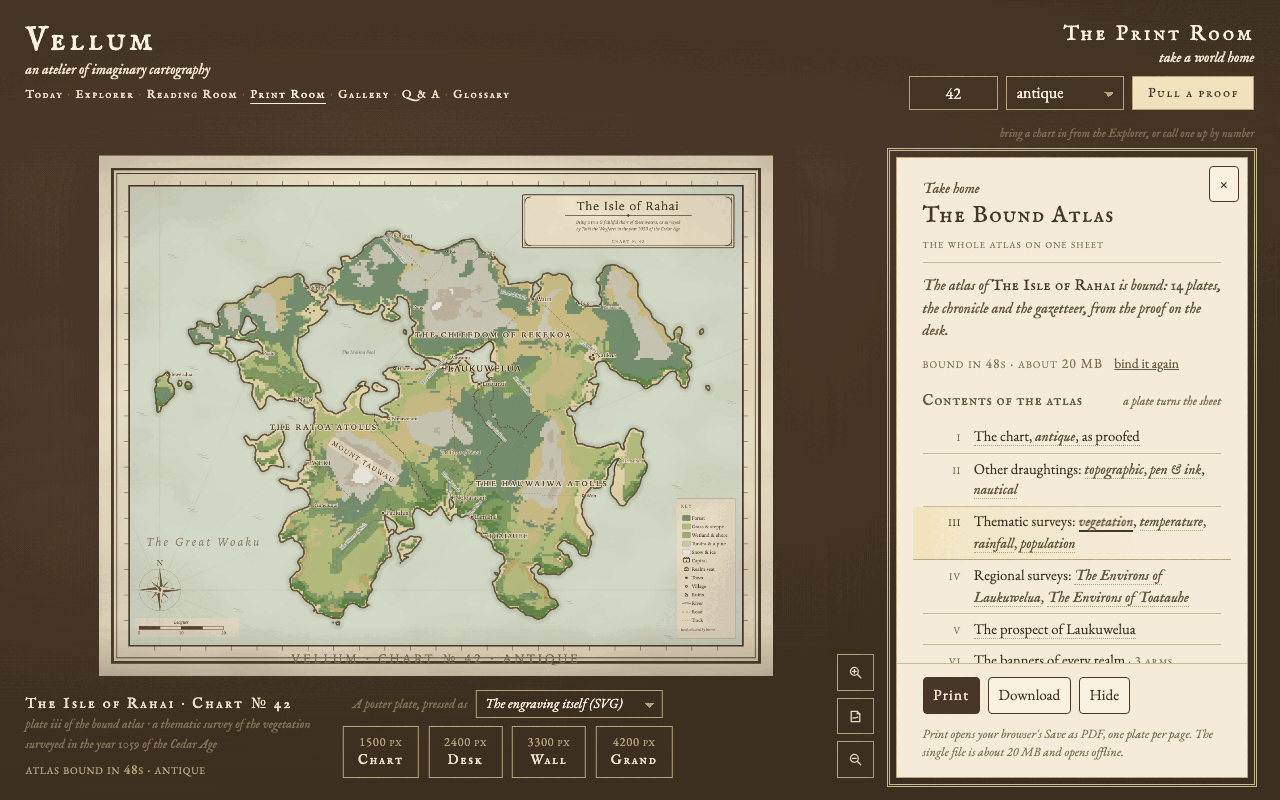
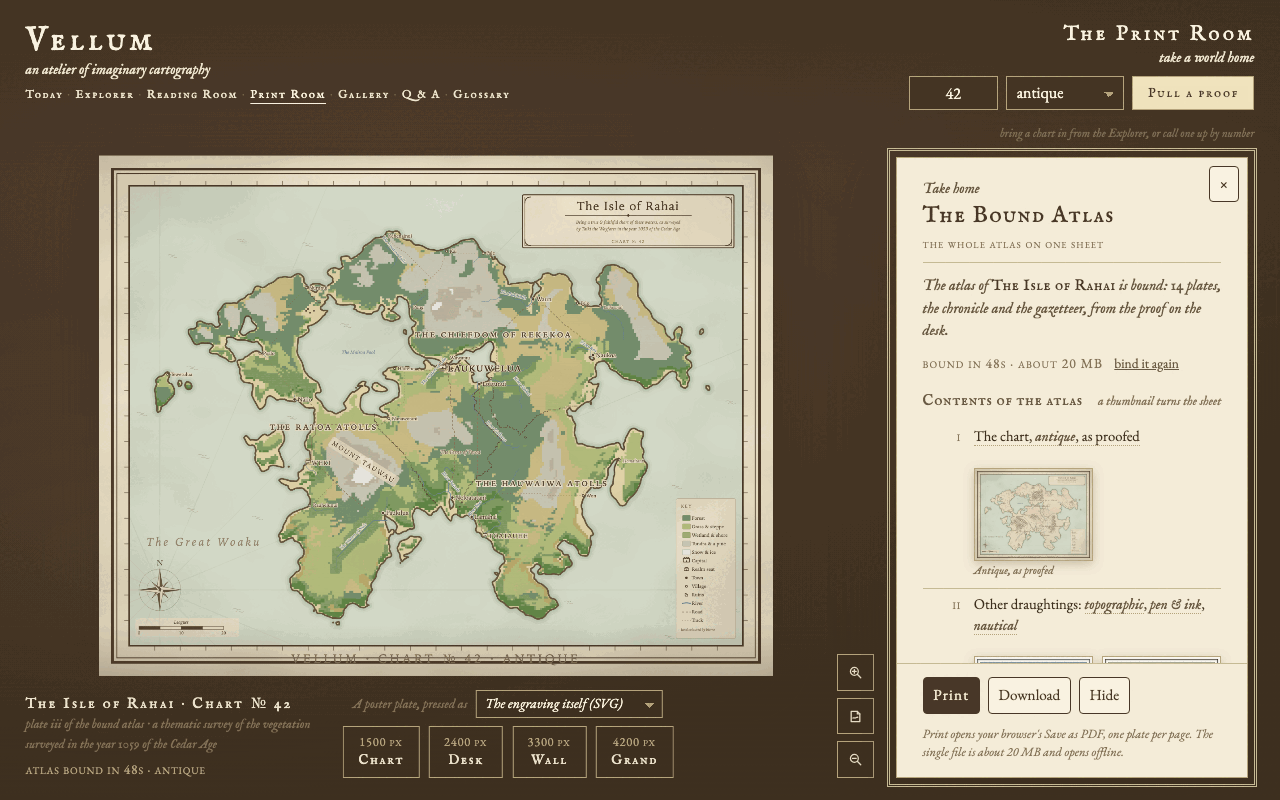
#494 the Print Room mockup takes the ruled seat: the thumbnails stay in the slip and turn the sheet
Alex's ruling of 2026-08-30 in his words: same as seat d, but still display the thumbnails inside the
panel; clicking one swaps it out for the one on the stage. The default seat now shows the plates under
their contents rows, a thumbnail is a turn, the plate on the sheet wears the ink; a new still scrolls the
panel to the inked entry. Seats a and b stay behind ?seat= as the record of what was not chosen.

Claude-Session: https://claude.ai/code/session_01KtYB2k37txgZ9C9dCMwGCT

diff --git a/design/sub7-chart-rooms/print-room-bound.tpl.html b/design/sub7-chart-rooms/print-room-bound.tpl.html
@@ -32,13 +32,17 @@ body:not(.seat-d) .contents li.on { background: none; margin: 0; padding-left: 0
 body:not(.seat-d) .contents a.turn, body:not(.seat-d) .contents li.on a.turn.here { border-bottom: 0; font-weight: 400; color: inherit; pointer-events: none; }
 body:not(.seat-d) .contents li.on .cr-num { color: var(--ink-faded); }
 body:not(.seat-d) .turn-gloss { display: none; }
-/* seat b, the plates in the slip's scrolling body: a two-up gallery under each contents row */
+/* the plates in the slip's scrolling body (seat b, and the RULED seat d): a two-up gallery under each contents row; in seat d a thumbnail is a turn too, and the plate on the sheet wears the ink */
 .plates { display: none; }
-body.seat-b .plates { display: grid; grid-template-columns: 1fr 1fr; gap: 0.55rem; margin: 0.45rem 0 0.3rem 3.2rem; flex: 1 1 100%; }
-body.seat-b .contents li { flex-wrap: wrap; }
-body.seat-b .contents .cr-text { flex: 1 1 0; min-width: 0; }
+body:is(.seat-b, .seat-d) .plates { display: grid; grid-template-columns: 1fr 1fr; gap: 0.55rem; margin: 0.45rem 0 0.3rem 3.2rem; flex: 1 1 100%; }
+body:is(.seat-b, .seat-d) .contents li { flex-wrap: wrap; }
+body:is(.seat-b, .seat-d) .contents .cr-text { flex: 1 1 0; min-width: 0; }
+body.seat-d .plates figure { cursor: pointer; }
+body.seat-d .plates figure:hover img { transform: translateY(-2px); box-shadow: 0 6px 14px rgb(from var(--chart-ink) r g b / 0.35); }
+body.seat-d .plates figure.here img { outline: 2px solid var(--ink-dark); outline-offset: 2px; }
+body.seat-d .plates figure.here figcaption { color: var(--ink-dark); font-weight: 600; }
 .plates figure { margin: 0; }
-.plates img { display: block; width: 100%; height: auto; border: 1px solid var(--line-tan); box-shadow: 0 3px 10px rgb(from var(--chart-ink) r g b / 0.25); }
+.plates img { display: block; width: 100%; height: auto; border: 1px solid var(--line-tan); box-shadow: 0 3px 10px rgb(from var(--chart-ink) r g b / 0.25); transition: transform 0.2s ease, box-shadow 0.2s ease; }
 .plates figcaption { font-family: var(--font-flourish); font-style: italic; font-size: 0.72rem; color: var(--ink-faded); margin-top: 0.2rem; line-height: 1.3; }
 /* seats a and b keep the proof on the sheet: the turned plate is seat d's alone */
 body:not(.seat-d) #plate-turned { display: none; }
@@ -59,7 +63,7 @@ body:not(.seat-d) .folio .plate-line { display: none; }
   .seed-controls select.control { display: none; }
   .legend.in-slip .legend-row { gap: 0.4rem; }
   .legend.in-slip .legend-btn { flex: 1 1 40%; }
-  body.seat-b .plates { margin-left: 0; }
+  body:is(.seat-b, .seat-d) .plates { margin-left: 0; }
 }
 </style>
 <script>window.ROOM_CAM = { top: 60, bottom: 104, bottomNarrow: 58 };
@@ -100,9 +104,12 @@ addEventListener('DOMContentLoaded', () => document.body.classList.add('seat-' +
       <span class="stamp">bound in 48s · about 20 MB</span>
       <a class="again" href="#">bind it again</a>
     </div>
-    <p class="contents-head"><span>Contents of the atlas</span><span class="gloss turn-gloss">a plate turns the sheet</span></p>
+    <p class="contents-head"><span>Contents of the atlas</span><span class="gloss turn-gloss">a thumbnail turns the sheet</span></p>
     <ol class="contents">
-      <li><span class="cr-num">i</span><span class="cr-text"><a class="turn" href="#">The chart, <em>antique</em>, as proofed</a></span></li>
+      <li><span class="cr-num">i</span><span class="cr-text"><a class="turn" href="#">The chart, <em>antique</em>, as proofed</a></span>
+        <div class="plates">
+          <figure><img src="{{THUMB:antique}}" alt=""><figcaption>Antique, as proofed</figcaption></figure>
+        </div></li>
       <li><span class="cr-num">ii</span><span class="cr-text">Other draughtings: <a class="turn" href="#"><em>topographic</em></a>, <a class="turn" href="#"><em>pen &amp; ink</em></a>, <a class="turn" href="#"><em>nautical</em></a></span>
         <div class="plates">
           <figure><img src="{{THUMB:topographic}}" alt=""><figcaption>Topographic</figcaption></figure>
@@ -111,7 +118,7 @@ addEventListener('DOMContentLoaded', () => document.body.classList.add('seat-' +
         </div></li>
       <li class="on"><span class="cr-num">iii</span><span class="cr-text">Thematic surveys: <a class="turn here" href="#"><em>vegetation</em></a>, <a class="turn" href="#"><em>temperature</em></a>, <a class="turn" href="#"><em>rainfall</em></a>, <a class="turn" href="#"><em>population</em></a></span>
         <div class="plates">
-          <figure><img src="{{THUMB:theme-vegetation}}" alt=""><figcaption>Vegetation</figcaption></figure>
+          <figure class="here"><img src="{{THUMB:theme-vegetation}}" alt=""><figcaption>Vegetation</figcaption></figure>
           <figure><img src="{{THUMB:theme-climate}}" alt=""><figcaption>Temperature</figcaption></figure>
           <figure><img src="{{THUMB:theme-moisture}}" alt=""><figcaption>Rainfall</figcaption></figure>
           <figure><img src="{{THUMB:theme-population}}" alt=""><figcaption>Population</figcaption></figure>

diff --git a/design/sub7-chart-rooms/README.md b/design/sub7-chart-rooms/README.md
@@ -40,10 +40,12 @@ prospect of the capital, the road unrolled from it, `plates.json` and the atlas'
 to `out/494-plates/`; `shoot.mjs` rasterizes those into `plates-42/` for the slip's thumbnails):
 
 - **`print-room-bound.tpl.html`**, the Print Room with the atlas BOUND. One page, three candidate
-  seats for the bound atlas, chosen by `?seat=`: **d** (the default): the atlas turns on the
-  stage, every entry in the contents is a turn and the plate on the sheet is inked; **b**: the
-  plates render small in the slip's scrolling body under their contents rows; **a**: nothing on
-  screen, the contents ink in and Print / Download work from the hidden document. Seat c (a
+  seats for the bound atlas, chosen by `?seat=`: **d** (the default, and RULED 2026-08-30 in Alex's
+  words: "same as d, but still display the thumbnails inside the panel; clicking one swaps it out
+  for the one on the stage"): the atlas turns on the stage, the plates stay as thumbnails under
+  their contents rows, a thumbnail or an entry is a turn, and the plate on the sheet is inked;
+  **b**: the plates in the slip's body with the proof kept on the stage (not chosen); **a**: nothing
+  on screen, the contents ink in and Print / Download work from the hidden document (not chosen). Seat c (a
   scrolling document below the stage) is not mocked: it is the page as it stands today, and a
   chart room does not scroll (chart-room rulings 1, 7 and 9).
 - **`prospect.tpl.html`**, the Prospect as a chart room: the engraving full-bleed at twice its
@@ -53,7 +55,8 @@ to `out/494-plates/`; `shoot.mjs` rasterizes those into `plates-42/` for the sli
   (setting out from, bound for, Turn about) as the top-right row, the itinerary league by league
   on the slip in the instrument's dated-row idiom. On a phone the journey row moves into the sheet.
 
-Stills: `print-room-bound-{a,b,d}-1280`, `print-room-bound-d-390` (closed and `-open`), `prospect-1280`,
+Stills: `print-room-bound-{a,b,d}-1280`, `print-room-bound-d-1280-turned` (the panel scrolled to the
+inked entry), `print-room-bound-d-390` (closed and `-open`), `prospect-1280`,
 `prospect-1280-folded`, `prospect-390` (closed and `-open`), `ribbon-1280`, `ribbon-1280-leaned` (the Glass at
 2.6x on the first strip), `ribbon-390` (closed and `-open`). The seat switch is a query string, not a hash: a
 hash-only change is a same-document navigation and the shooter's second job would inherit the
